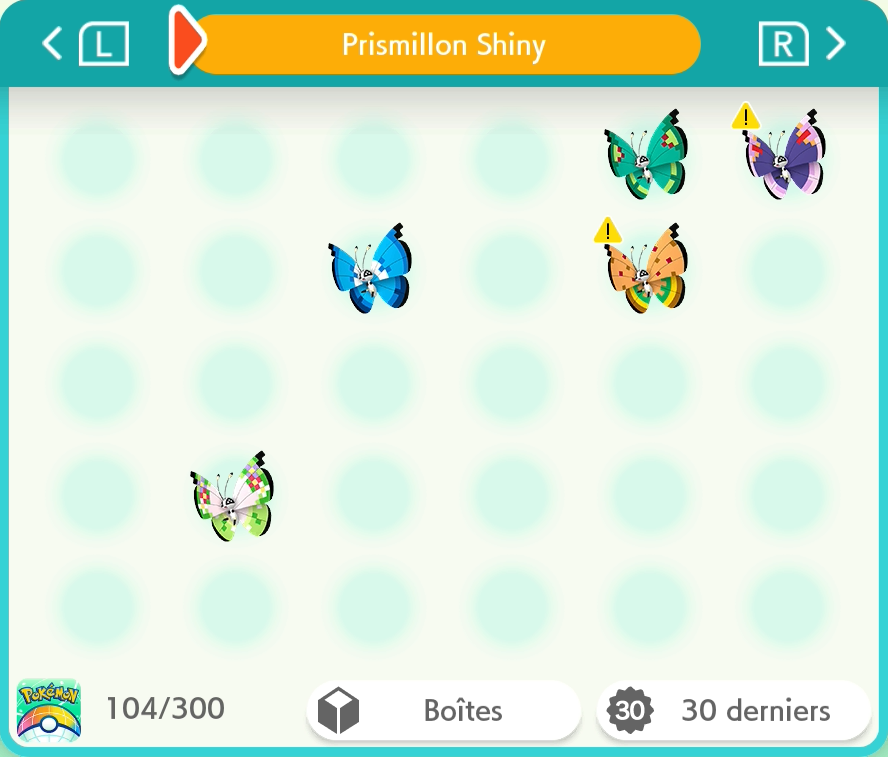
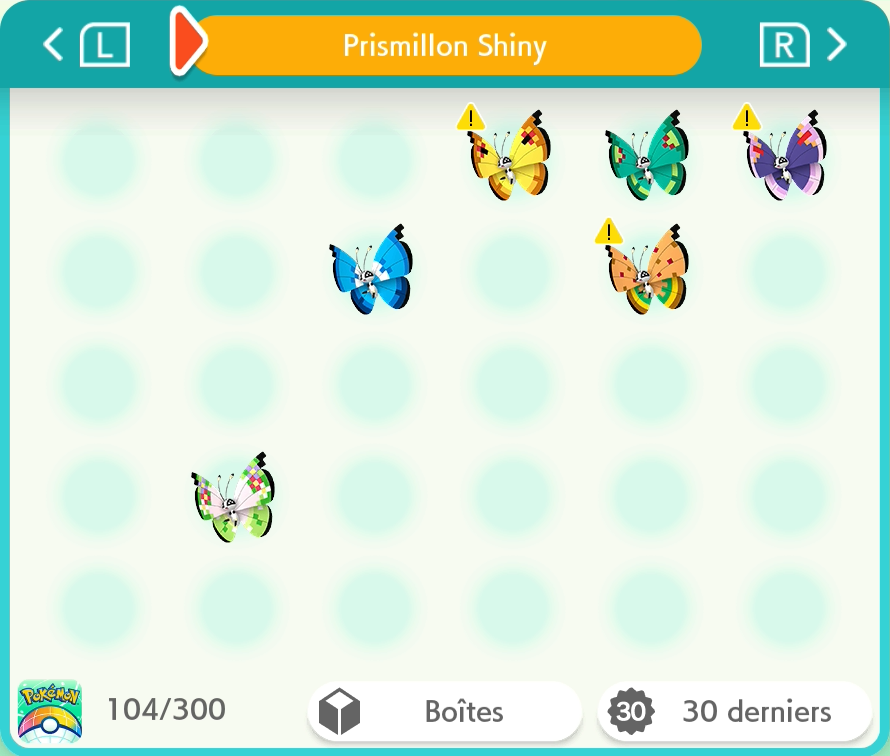
Prismillon : Motif Continent

diff --git a/README.md b/README.md
@@ -2,7 +2,7 @@
 
 Pokémon-Elément-Sh -> <a href="https://www.pokemon-element-sh.fr/profil/karyno21" target="_blank">Karyno21</a>
 
-↓ Dernière Update le 11/10/2026 à 2h23 ↓
+↓ Dernière Update le 12/10/2026 à 2h33 ↓
 ### Dex 1-9G [293/1001] +32
 
 | Gen | Prog | Notes |
@@ -31,14 +31,14 @@ Pokémon-Elément-Sh -> <a href="https://www.pokemon-element-sh.fr/profil/karyno
 <details>
   <summary>Bonus - Motif de Prismillon</summary>
 
-### Motif de Prismillon [5/19] +5
+### Motif de Prismillon [6/19] +6
 
 | Motif | Prog |
 |---|:--:|
 |Motif Archipel||
 |Motif Banquise||
 |Motif Blizzard||
-|Motif Continent||
+|Motif Continent|Obtenu|
 |Motif Cyclone||
 |Motif Delta||
 |Motif Fantaisie (événementiel / motif de base dans Écarlate et Violet)|Obtenu|
